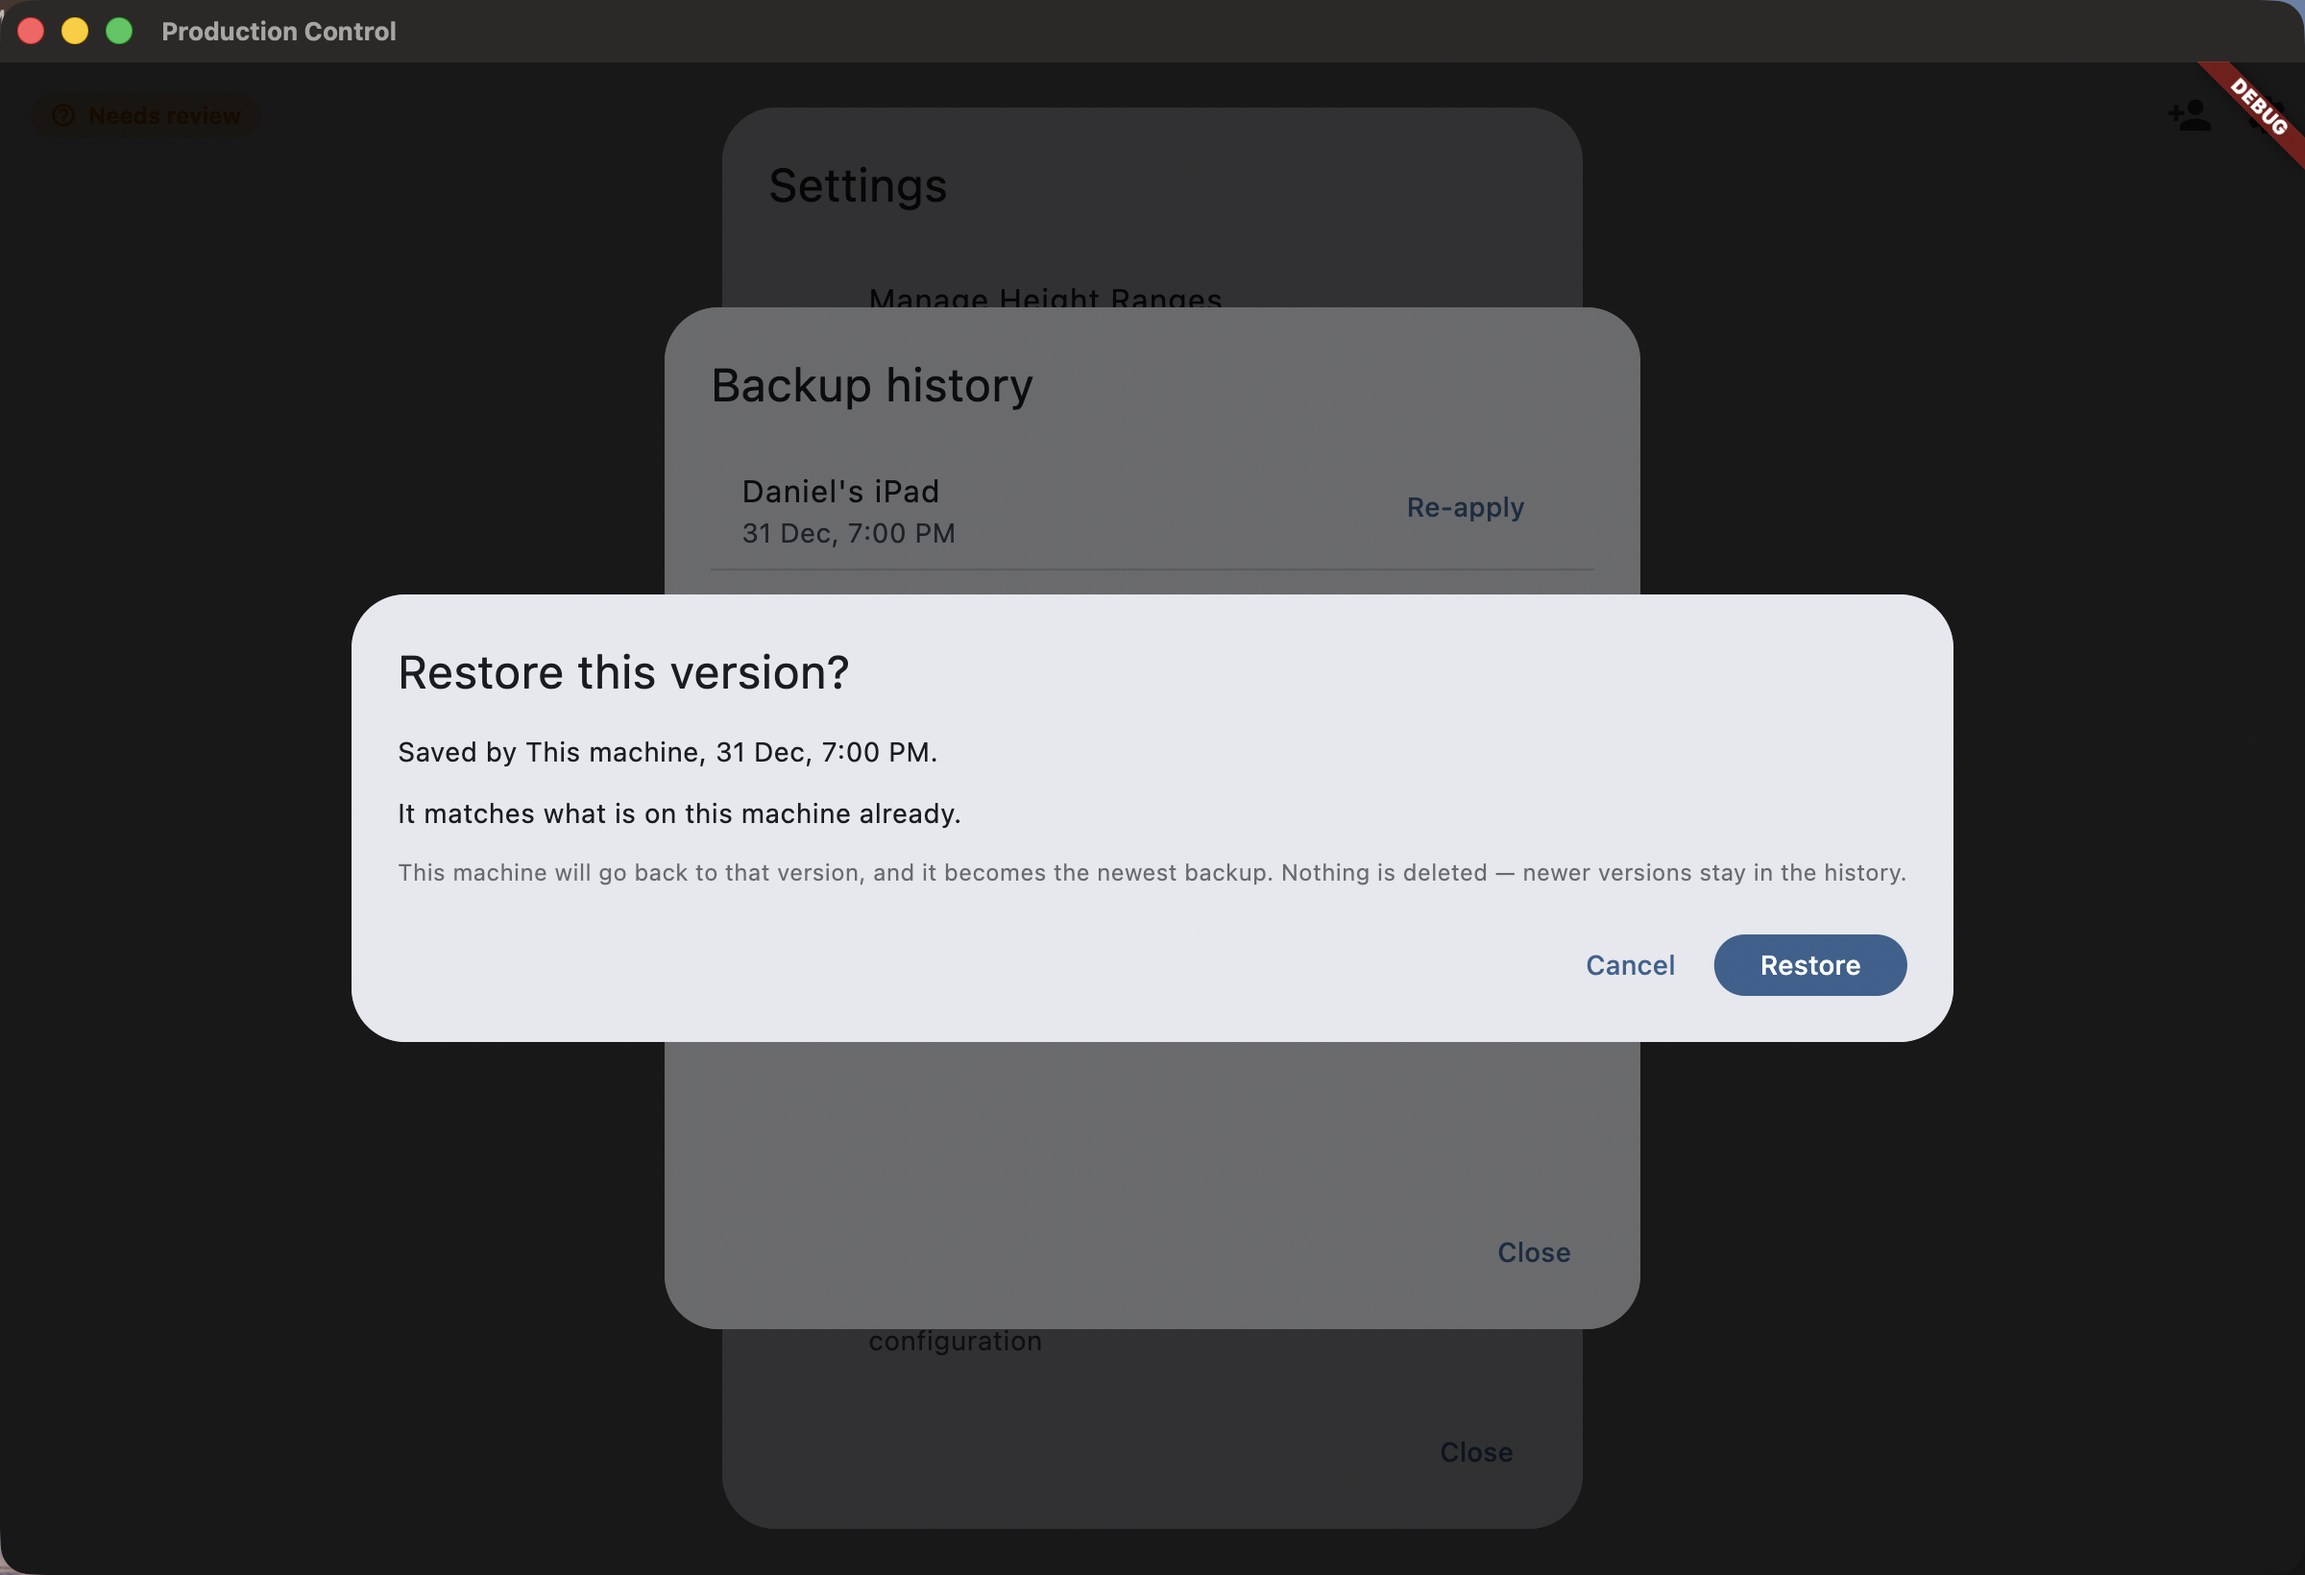
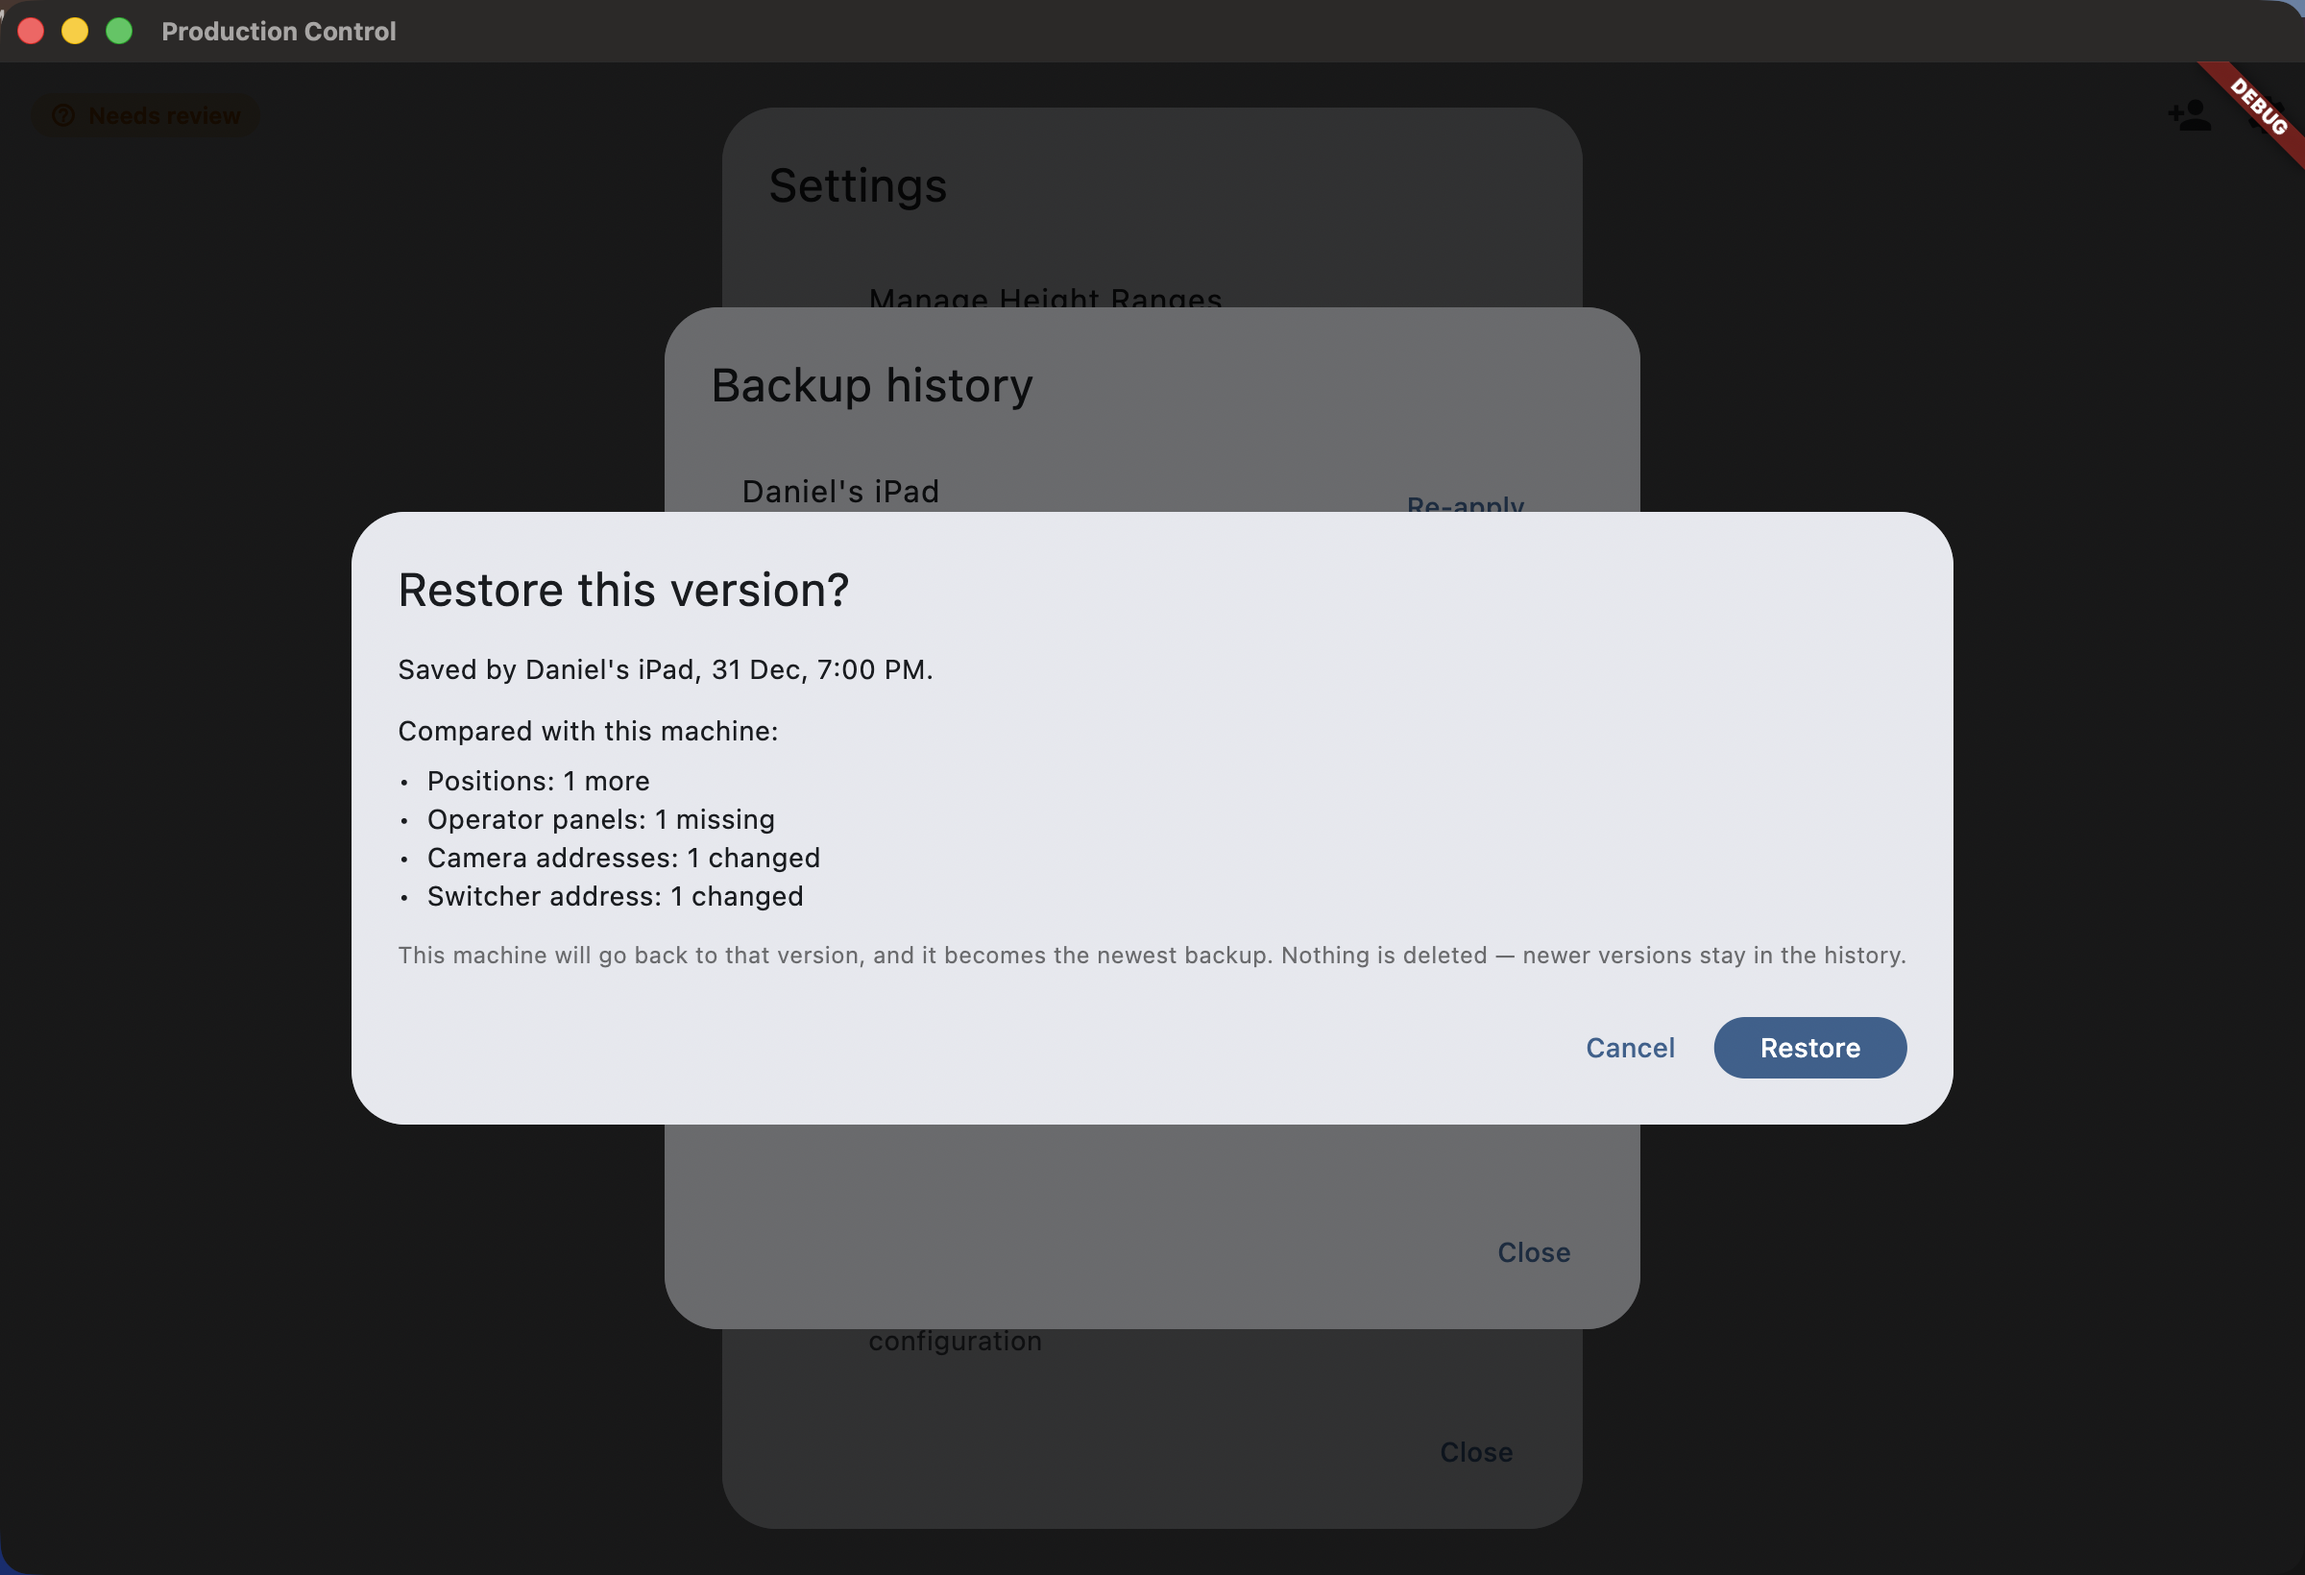
docs: recapture history list and name-this-machine screenshots
history-list.png was the Settings sheet, not the history dialog; it now
shows Backup history with both revision rows (Daniel's iPad / Re-apply,
This machine / Restore).

name-dialog-default.png was the disconnected main screen with no dialog;
it now shows Name this machine with the host suggestion pre-filled.

name-dialog-rejected.png was pre-Save with no snackbar; it now shows the
rejection message. The dialog cannot appear in the same frame — Save pops
it before showSnackBar runs — and that deviation is written up rather than
worked around.

restore-confirm.png replaced with the Daniel's iPad revision, so the
confirm carries a real diff instead of "matches this machine already".

Claude-Session: https://claude.ai/code/session_01Vk43nsCoDNhgwMQNBPRxD8

Changed region(s): [[0.125, 0.311, 0.875, 0.7152], [0.0, 0.9951, 0.0312, 1.0]]

diff --git a/docs/superpowers/lanes/backup-resolution/progress.md b/docs/superpowers/lanes/backup-resolution/progress.md
@@ -4,17 +4,26 @@ Date: 2026-08-23
 Branch: `lane/backup-resolution`
 Plan: `docs/superpowers/plans/2026-08-21-status-surface.md`
 Code HEAD at screenshot commit: `f6067b5`
-Screenshot commit: `b08cccf` (agy), inventory corrected after controller looked at every PNG.
+Screenshot commit: `b08cccf` (agy), inventory corrected after the controller
+looked at every PNG, then four files recaptured on a second pass.
 
 Captured from the real macOS app (`Production Control`) with
-`tools/mock_server/drive_macos_app.sh` against
-`--dart-define=BACKUP_MOCK=true --dart-define=BACKUP_SCENARIO=conflict`.
-Live mode. Not connected. Agy also tightened `pin()` in the drive script
-(`AXRaise` + `frontmost`) so the window actually comes to the front.
+`tools/mock_server/drive_macos_app.sh` against `--dart-define=BACKUP_MOCK=true`.
+The conflict shots add `--dart-define=BACKUP_SCENARIO=conflict`; the two name
+dialogs come from a second launch with prefs wiped and **no** scenario, so the
+machine is genuinely unnamed. Live mode. Not connected. Agy tightened `pin()`
+in the drive script (`AXRaise` + `frontmost`) so the window actually comes to
+the front.
+
+The Settings list scrolls past the window, and the Backup History / Name this
+machine tiles sit below the fold. `cliclick` has no scroll command and the
+Flutter list does not take keyboard focus, so the second pass drove a real
+scroll-wheel event from a throwaway Swift helper in the scratchpad. Nothing in
+the repo changed to make a screenshot easier.
 
 ## Screenshot evidence
 
-Controller opened every file. Claims below are from the pixels, not from agy's write-up.
+Every claim below is from opening the PNG, not from a write-up.
 
 | Planned | File | What it actually shows |
 |---|---|---|
@@ -22,14 +31,24 @@ Controller opened every file. Claims below are from the pixels, not from agy's w
 | Popover with Review | `screenshots/conflict-popover-review.png` | **Pass.** Pinned amber row `Another machine saved a different configuration.` / `conflict`. Header action **Review**, not Retry now. (Header also says “This configuration has never been backed up.” — last-success line, not a failed capture.) |
 | Conflict dialog + real diff | `screenshots/conflict-dialog-diff.png` | **Pass.** Title `Two machines have different settings`. `Daniel's iPad saved a copy 31 Dec, 7:00 PM.` Lines: `Positions: 1 more`, `Operator panels: 1 missing`, `Camera addresses: 1 changed`, `Switcher address: 1 changed`. Buttons Decide later / Use their copy / Keep mine. |
 | Comparison-failed | *(omitted)* | In-memory mock serves the body; no scenario for a failed download. Not faked. |
-| Backup history list | `screenshots/history-list.png` | **Wrong file.** This is **Settings**, not the history dialog. Useful as a wiring shot: Configure → Name this machine, Data → Backup History. The actual history rows are only visible *behind* `restore-confirm.png`. |
-| Restore confirm | `screenshots/restore-confirm.png` | **Pass on the dialog, weak on the case.** Title `Restore this version?`, Cancel / Restore, copy that it becomes the newest backup. Opened on **This machine** — `It matches what is on this machine already.` Not an older differing revision. Background shows Backup history with `Daniel's iPad` / Re-apply. |
-| Name dialog, good default | `screenshots/name-dialog-default.png` | **Fail.** Disconnected main screen, no dialog. Duplicate of the pill page. |
-| Name dialog, rejected | `screenshots/name-dialog-rejected.png` | **Partial.** Dialog open, field is `localhost`, Cancel / Save. Spec asked for the snackbar *after* Save (`That name is already in use, or is not specific enough.`). No snackbar in the frame. |
+| Backup history list | `screenshots/history-list.png` | **Pass (recaptured).** The dialog itself now: title `Backup history`, two revision rows — `Daniel's iPad` / `31 Dec, 7:00 PM` with **Re-apply**, and `This machine` / `31 Dec, 7:00 PM` with **Restore** — plus Close, over the dimmed Settings sheet. |
+| Restore confirm | `screenshots/restore-confirm.png` | **Pass (recaptured, better case).** Re-apply on **Daniel's iPad** instead of this machine, so the confirm carries a real diff: `Saved by Daniel's iPad, 31 Dec, 7:00 PM.` / `Compared with this machine:` / `Positions: 1 more`, `Operator panels: 1 missing`, `Camera addresses: 1 changed`, `Switcher address: 1 changed`, then the “becomes the newest backup, nothing is deleted” line and Cancel / Restore. Replaces the old shot, which said `It matches what is on this machine already.` |
+| Name dialog, good default | `screenshots/name-dialog-default.png` | **Pass (recaptured).** Dialog `Name this machine`, the “whatever you would actually say out loud” copy, Name field pre-filled with the host suggestion `Daniels-MacBook-Pro`, Cancel / Save. Pill reads `Not backed up`, correct for a fresh unnamed launch. |
+| Name dialog, rejected | `screenshots/name-dialog-rejected.png` | **Partial pass (recaptured).** The snackbar is now in frame and legible: `That name is already in use, or is not specific enough. Try something that names this machine.` The dialog is **not** in the same frame — see below. |
 
-Agy’s original inventory said `history-list.png` listed revisions and
-`name-dialog-default.png` showed a pre-filled `This machine`. Those sentences
-do not match the files.
+### Why the rejected shot has no dialog in it
+
+The spec asked for the name dialog *and* the snackbar together. That state does
+not exist. `lib/widgets/backup/device_name_dialog.dart:27-38` pops the dialog
+first (`showDialog` returns the typed text), sanitises the result, and only
+then calls `showSnackBar`. By the time the message can appear the field is
+already gone. Reopening the dialog on top of a live snackbar would produce the
+requested picture but would misrepresent what Save actually does, so the honest
+post-Save frame is what is committed. Changing the dialog to keep the field
+open would be a product change, not a screenshot fix.
+
+The snackbar sits under the Settings modal barrier, which dims it. That is the
+real app appearance, not a capture artefact.
 
 ## Limitations
 
@@ -39,18 +58,17 @@ do not match the files.
   fire (deviation D6). Not screenshotted.
 - Device-name uniqueness only sees revisions the store returns, so two
   machines named offline can still collide until their first push.
-- Comparison-failed dialog was not captured (mock fetch succeeds).
-- `name-dialog-default.png` does not show the name dialog. Recapture needed.
-- `history-list.png` is Settings, not the history list. Recapture needed, or
-  treat `restore-confirm.png` as the only history evidence.
-- Rejected-name snackbar was not captured (shot is pre-Save).
-- Mock timestamps read `31 Dec, 7:00 PM` (mock clock), not wall time.
-
-## Remaining capture (if Daniel wants a second pass)
-
-1. `history-list.png` — the Backup history dialog itself (two rows, Restore on the older).
-2. `name-dialog-default.png` — Name this machine with the host suggestion or a blank field. Second launch *without* `BACKUP_SCENARIO=conflict`, prefs wiped.
-3. `name-dialog-rejected.png` *after* Save, with the snackbar visible.
-4. Optional: restore confirm on a revision that actually differs.
+- Comparison-failed dialog was not captured, and no engine code was added to
+  fake one — the mock fetch always succeeds.
+- Rejected-name shot cannot show the dialog and the snackbar together, because
+  the dialog closes before the message fires. Documented above.
+- Mock timestamps read `31 Dec, 7:00 PM` (mock clock), not wall time. Both
+  history rows carry the same stamp, so “newest” is row order, not a visible
+  time difference.
+- The host suggestion in `name-dialog-default.png` is this Mac's hostname. On a
+  machine whose hostname is on the worthless list in
+  `lib/services/backup/device_label.dart` (`localhost`, `MacBook Pro`,
+  `Mac mini`, …) the field would be blank instead. Only the suggesting branch
+  is captured.
 
 Do not push or merge until Daniel says so.
